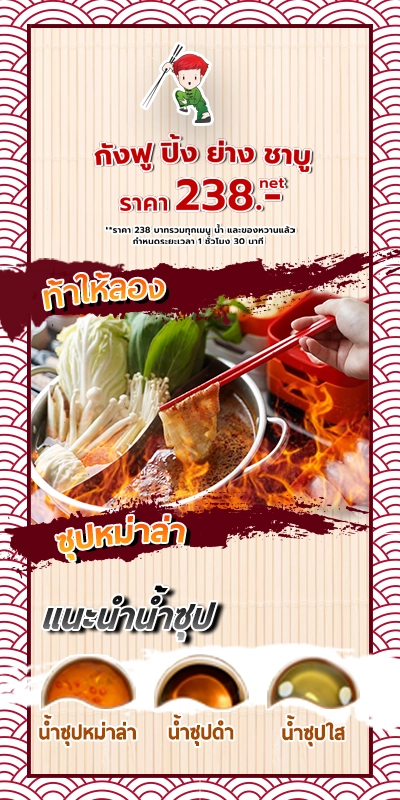
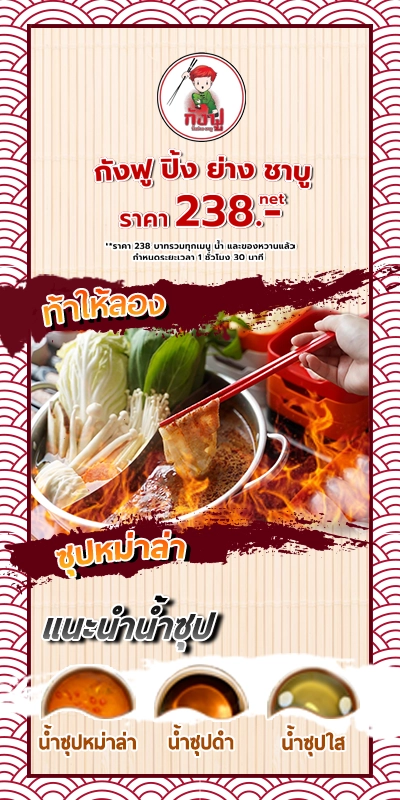
change home pic

diff --git a/src/app/components/home.js b/src/app/components/home.js
@@ -1,7 +1,7 @@
 import '../../../assets/styles/main.scss'
 import Image from 'next/image'
 import { useEffect, useState } from 'react'
-import ban01 from '../../../assets/images/ban01.webp'
+import banner from '../../../assets/images/banner01.webp'
 import ban02 from '../../../assets/images/ban02.webp'
 import ban03 from '../../../assets/images/ban03.webp'
 import ban04 from '../../../assets/images/ban04.jpg'
@@ -11,7 +11,7 @@ import ban03_mobile from '../../../assets/images/ban03_mobile.webp'
 
 export default function SectionHome() {
   const items = [
-    { id: 0, imgDesktop: ban01, imgMobile: ban01_mobile },
+    { id: 0, imgDesktop: banner, imgMobile: ban01_mobile },
     { id: 1, imgDesktop: ban02, imgMobile: ban02_mobile },
     { id: 2, imgDesktop: ban03, imgMobile: ban03_mobile },
     { id: 3, imgDesktop: ban04, imgMobile: ban04 },

diff --git a/assets/styles/main.scss b/assets/styles/main.scss
@@ -679,7 +679,7 @@ a {
       padding: 1rem 1rem 0rem 1rem;
       .contact-detail {
         font-size: 1rem;
-        padding: 0rem 0.5rem 0rem 0rem;
+        padding: 0rem 0.25rem 0rem 0rem;
       }
       .contact-flex {
         display: block;
